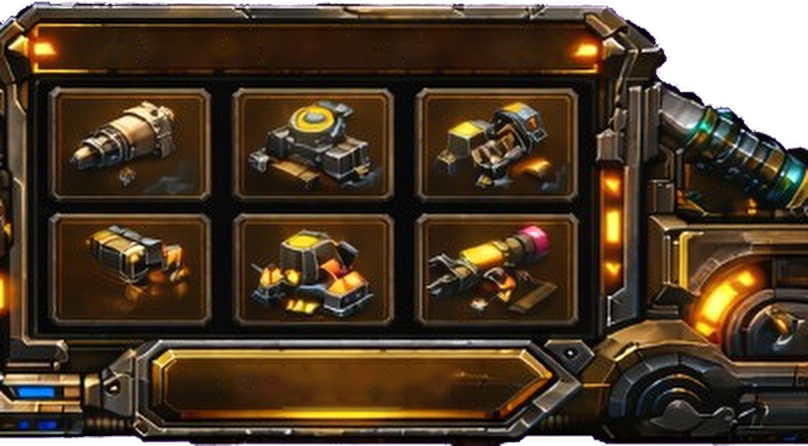
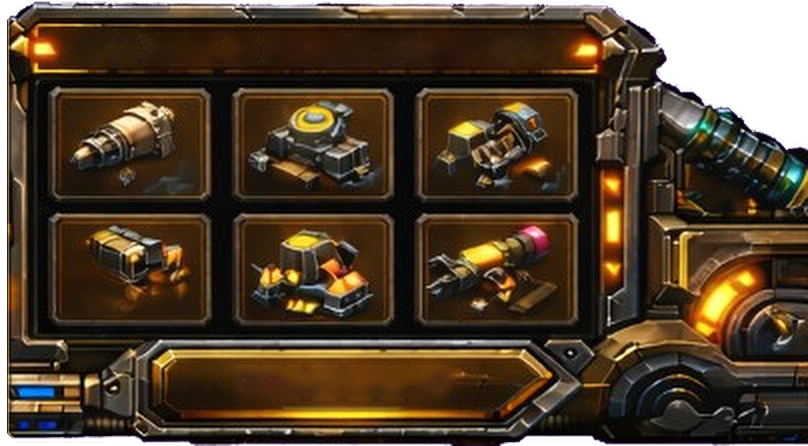
Finish the HUD's inner ends along their frames
The art was painted as one strip, so where it is now split MATERIALS stopped
mid-strut and BUILD STRUCTURES on a straight cut at the image border. The
mirrored cap added for the left part was a slice of that same cut edge.

- Cut both facing ends along the outer edge of their bronze frames, with
  small chamfered corners, and bake a bevel into the art along the cut: a
  bronze lip, a dark groove and an outline that reads against bright terrain.
- Remove the mirrored end cap and its code.

HUD art only: no simulation results change. Tests pass (572).

Changed region(s): [[0.0, 0.0291, 0.0309, 0.991]]

diff --git a/src/Tunnerer.Desktop/Gui/HudStrip.cs b/src/Tunnerer.Desktop/Gui/HudStrip.cs
@@ -66,7 +66,6 @@ public sealed class HudStrip
         DrawPanelArt(dl, _heatIconTex, HeatX, HeatPanelW);
         DrawPanelArt(dl, _shieldIconTex, ShieldX, ShieldPanelW);
         DrawPanelArt(dl, _panelFrameTex, MaterialsX, MaterialsPanelW);
-        DrawLeftEndCap(dl);
         DrawPanelArt(dl, _buildPanelTex, BuildX, BuildPanelW);
         DrawPanelLabels(dl);
 
@@ -120,17 +119,6 @@ public sealed class HudStrip
     {
         var min = At(x, 0f);
         dl.AddImage(texture, min, min + new Vector2(S(w), S(StripH)));
-    }
-
-    /// <summary>
-    /// Closes the left part after MATERIALS with the build panel's left edge, mirrored so its finished side faces the
-    /// open middle of the screen.
-    /// </summary>
-    private void DrawLeftEndCap(ImDrawListPtr dl)
-    {
-        var min = At(MaterialsX, 0f) + new Vector2(S(MaterialsPanelW), 0f);
-        float u = LeftCapW / BuildPanelW;
-        dl.AddImage(_buildPanelTex, min, min + new Vector2(S(LeftCapW), S(StripH)), new Vector2(u, 0f), new Vector2(0f, 1f));
     }
 
     private void DrawBar(ImDrawListPtr dl, float x, float y, float w, float h, float fill, uint color)

diff --git a/src/Tunnerer.Desktop/Gui/HudLayout.cs b/src/Tunnerer.Desktop/Gui/HudLayout.cs
@@ -27,13 +27,10 @@ public sealed class HudLayout
     public const float BuildX = MaterialsX + MaterialsPanelW;
 
     /// <summary>
-    /// The left part's end cap: the art was painted as one strip, so MATERIALS stops mid-strut where BUILD STRUCTURES
-    /// used to join it. The cap is the build panel's finished left edge, mirrored, this many art pixels wide.
+    /// Widths of the two parts, in art pixels: the left one ends where BUILD STRUCTURES begins. The art was painted as
+    /// one strip, so the facing ends of MATERIALS and BUILD STRUCTURES are cut along their frames, with a bevel.
     /// </summary>
-    public const float LeftCapW = 30f;
-
-    /// <summary>Widths of the two parts on screen, in art pixels.</summary>
-    public const float LeftW = BuildX + LeftCapW, RightW = BuildPanelW;
+    public const float LeftW = BuildX, RightW = BuildPanelW;
 
     /// <summary>The narrowest clear gap between the two parts, in art pixels; narrower displays shrink the HUD.</summary>
     public const float MinCenterGap = 192f;
